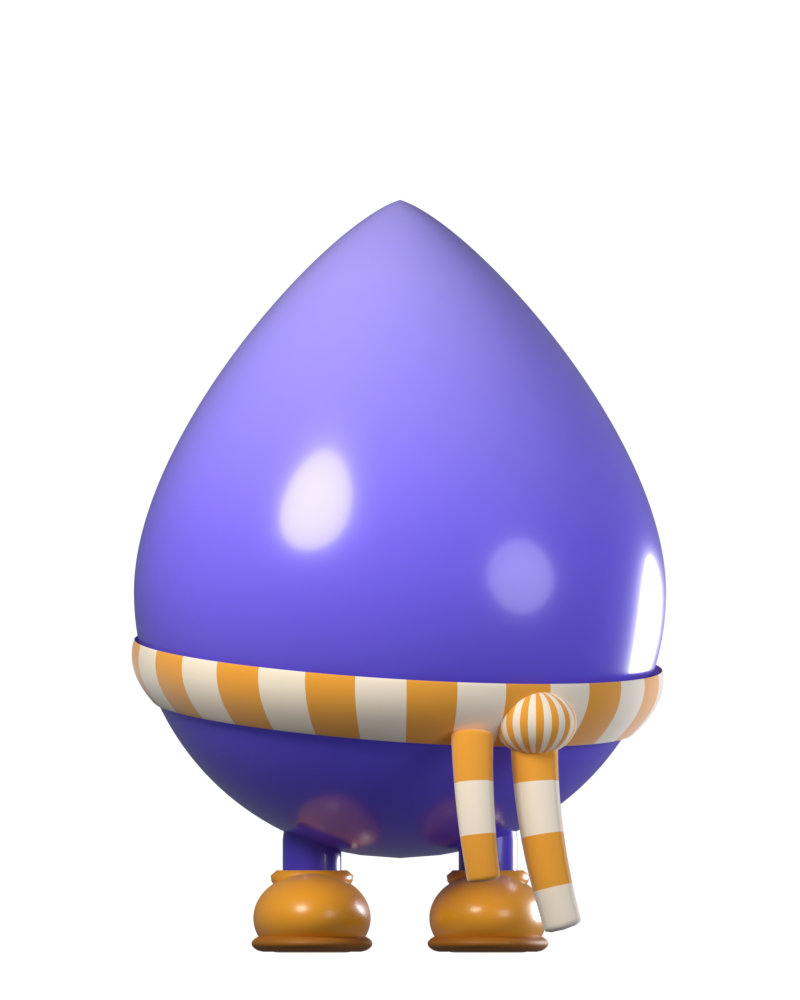
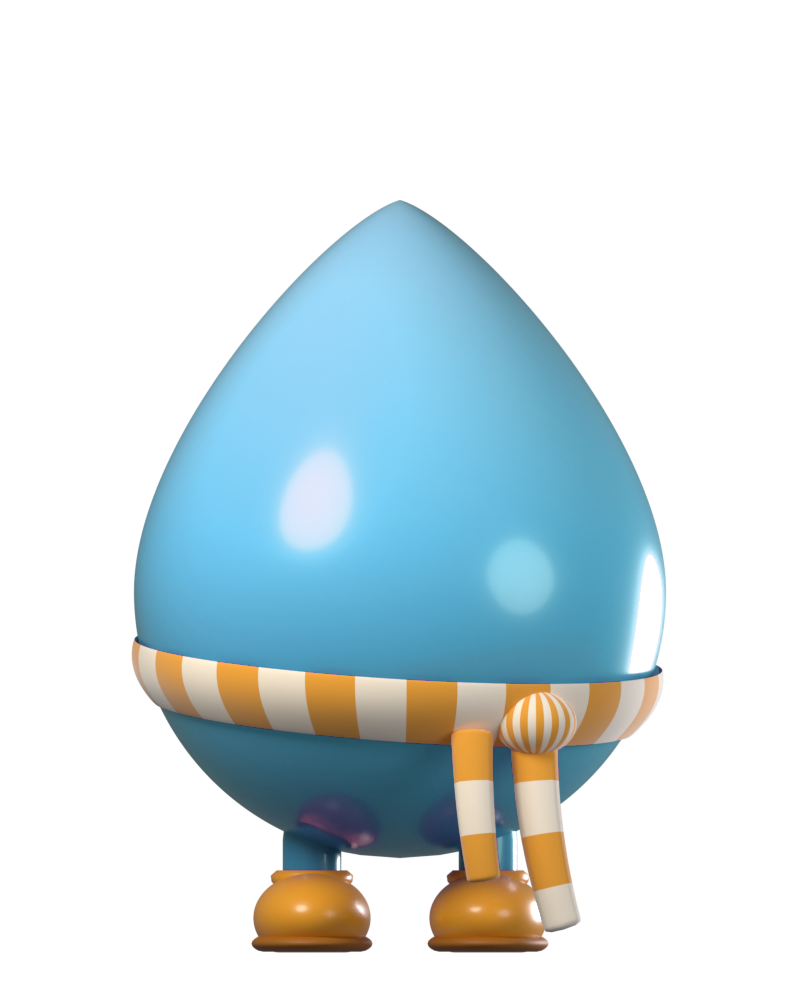
style(mascot): the v1 SVG Floo (web fallback) turns Floo blue
FLOO_COLORS and the body render `floo-body.png` were still the old violet brand. Both
went through one HSL transform (hue -49°, saturation x0.89, lightness -2.5%) chosen so
the old body colour lands exactly on the theme's `floo` #69C8F1; the lids sampled off
the render still match it. The Blender build script's palette follows.

Claude-Session: https://claude.ai/code/session_01TvEv5XXrM1E5QNnxs4NAJg

Changed region(s): [[0.1562, 0.186, 0.8438, 0.682], [0.2188, 0.713, 0.6562, 0.868], [0.6875, 0.744, 0.7812, 0.806]]

diff --git a/apps/mobile/src/mascot/moods.ts b/apps/mobile/src/mascot/moods.ts
@@ -134,17 +134,22 @@ export const MOOD_LABEL_TR: Record<FlooMood, string> = {
 export { GAZE_RADIUS };
 
 /**
- * Floo's palette. Violet body (the brand primary), amber knit for the scarf and boots — the warm
- * accent stops the character reading as a plain UI blob and ties back to the `warning` token family.
+ * The v1 SVG Floo's palette (today the web fallback when CanvasKit does not load). Floo blue body,
+ * the same `floo` colour as the theme tokens and Floo 3, with amber knit for the scarf and boots.
+ *
+ * The body family was violet when the app's brand was; it moved to blue with one HSL transform
+ * (hue −49°, saturation ×0.89, lightness −2.5%, chosen so the old `bodyMid` lands exactly on
+ * `floo` #69C8F1). The body render `assets/mascot/floo-body.png` went through the same transform,
+ * so the lids below, sampled off that render, still vanish into it on a blink.
  */
 export const FLOO_COLORS = {
   /** Body gradient, light rim → core → shaded base. */
-  bodyLight: "#A79AFF",
-  bodyMid: "#7E6DFA",
-  bodyDeep: "#5A46D8",
-  /** Warm bounce light on the shaded side, so the base does not read as dead purple. */
-  bounce: "#8E7BFF",
-  rim: "#D8D2FF",
+  bodyLight: "#93D9F9",
+  bodyMid: "#69C8F1",
+  bodyDeep: "#44A1CD",
+  /** Bounce light on the shaded side, so the base does not read as a dead shadow. */
+  bounce: "#76CDF7",
+  rim: "#C8ECFC",
   highlight: "#FFFFFF",
   eye: "#141A26",
   /** Reflected light in the lower half of the iris. */
@@ -152,16 +157,16 @@ export const FLOO_COLORS = {
   mouth: "#2A1030",
   tongue: "#F2708C",
   cheeks: "#FF9DB4",
-  mitten: "#6455E8",
+  mitten: "#52B6DE",
   /**
    * Eyelid fill, sampled from floo-body.png across the eye band (SVG y 103…141). The rendered body
    * is much lighter there than `bodyMid` because of the key light, so lids need their own pair.
    */
-  lidLight: "#D6CCFF",
-  lidDeep: "#C0B6F7",
+  lidLight: "#C3E6FB",
+  lidDeep: "#AFDBF1",
   scarf: "#F5A524",
   scarfAlt: "#FFF0D6",
   boot: "#D98A12",
   bootDark: "#A6650A",
-  shadow: "#3B2E7A",
+  shadow: "#2E576D",
 } as const;

diff --git a/apps/mobile/__tests__/mascot/flooColors.test.ts b/apps/mobile/__tests__/mascot/flooColors.test.ts
@@ -1,0 +1,26 @@
+import { FLOO_COLORS } from "../../src/mascot/moods";
+import { dark, light } from "../../src/theme/tokens";
+
+function hue(hex: string): number {
+  const [r, g, b] = [1, 3, 5].map((i) => parseInt(hex.slice(i, i + 2), 16) / 255) as [number, number, number];
+  const max = Math.max(r, g, b);
+  const d = max - Math.min(r, g, b);
+  if (d === 0) return 0;
+  const h = max === r ? ((g - b) / d) % 6 : max === g ? (b - r) / d + 2 : (r - g) / d + 4;
+  return (h * 60 + 360) % 360;
+}
+
+describe("the v1 SVG Floo's palette (web fallback)", () => {
+  test("its body is the app's Floo blue, the same colour the theme and Floo 3 use", () => {
+    expect(FLOO_COLORS.bodyMid).toBe(light.floo);
+    expect(FLOO_COLORS.bodyMid).toBe(dark.floo);
+  });
+
+  test("no body-family colour is left violet", () => {
+    const body = ["bodyLight", "bodyMid", "bodyDeep", "bounce", "rim", "mitten", "lidLight", "lidDeep", "shadow"] as const;
+    for (const k of body) {
+      const h = hue(FLOO_COLORS[k]);
+      expect([k, h > 185 && h < 215]).toEqual([k, true]);
+    }
+  });
+});

diff --git a/apps/mobile/assets/mascot/floo_build.py b/apps/mobile/assets/mascot/floo_build.py
@@ -22,6 +22,9 @@ from mathutils import Vector
 
 # ─────────────────────────────────────────────────────────────────────────────
 # Brand palette. sRGB hex from the app's FLOO_COLORS, converted to linear for Cycles.
+# The committed floo-body.png was rendered violet and then recoloured to Floo blue with the same
+# HSL transform FLOO_COLORS went through (see `src/mascot/moods.ts`); a fresh render from these
+# values is the same character in the same blue, give or take the shading of the transform.
 # ─────────────────────────────────────────────────────────────────────────────
 
 def srgb_to_linear(c: float) -> float:
@@ -34,9 +37,9 @@ def hex_rgba(h: str, a: float = 1.0):
     return (srgb_to_linear(r), srgb_to_linear(g), srgb_to_linear(b), a)
 
 
-BODY_LIGHT = hex_rgba("#A79AFF")
-BODY_MID = hex_rgba("#7E6DFA")
-BODY_DEEP = hex_rgba("#5A46D8")
+BODY_LIGHT = hex_rgba("#93D9F9")
+BODY_MID = hex_rgba("#69C8F1")
+BODY_DEEP = hex_rgba("#44A1CD")
 SCARF = hex_rgba("#F5A524")
 SCARF_ALT = hex_rgba("#FFF0D6")
 BOOT = hex_rgba("#F5A524")
